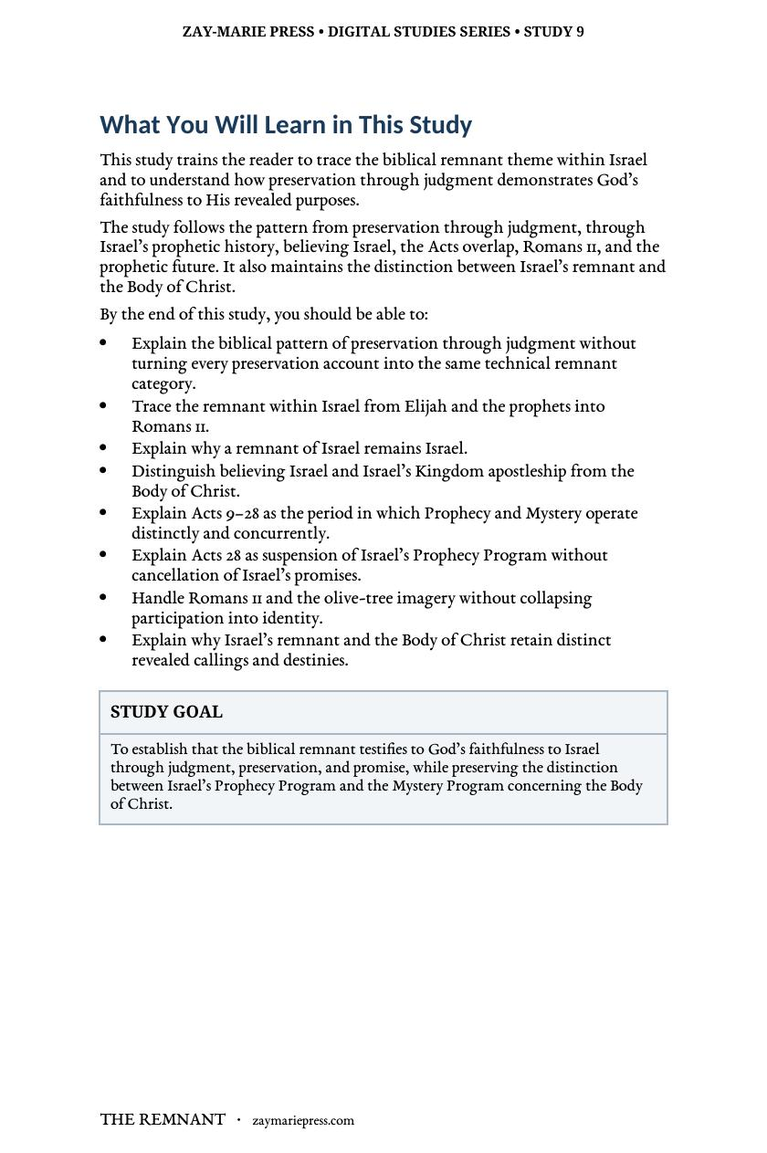
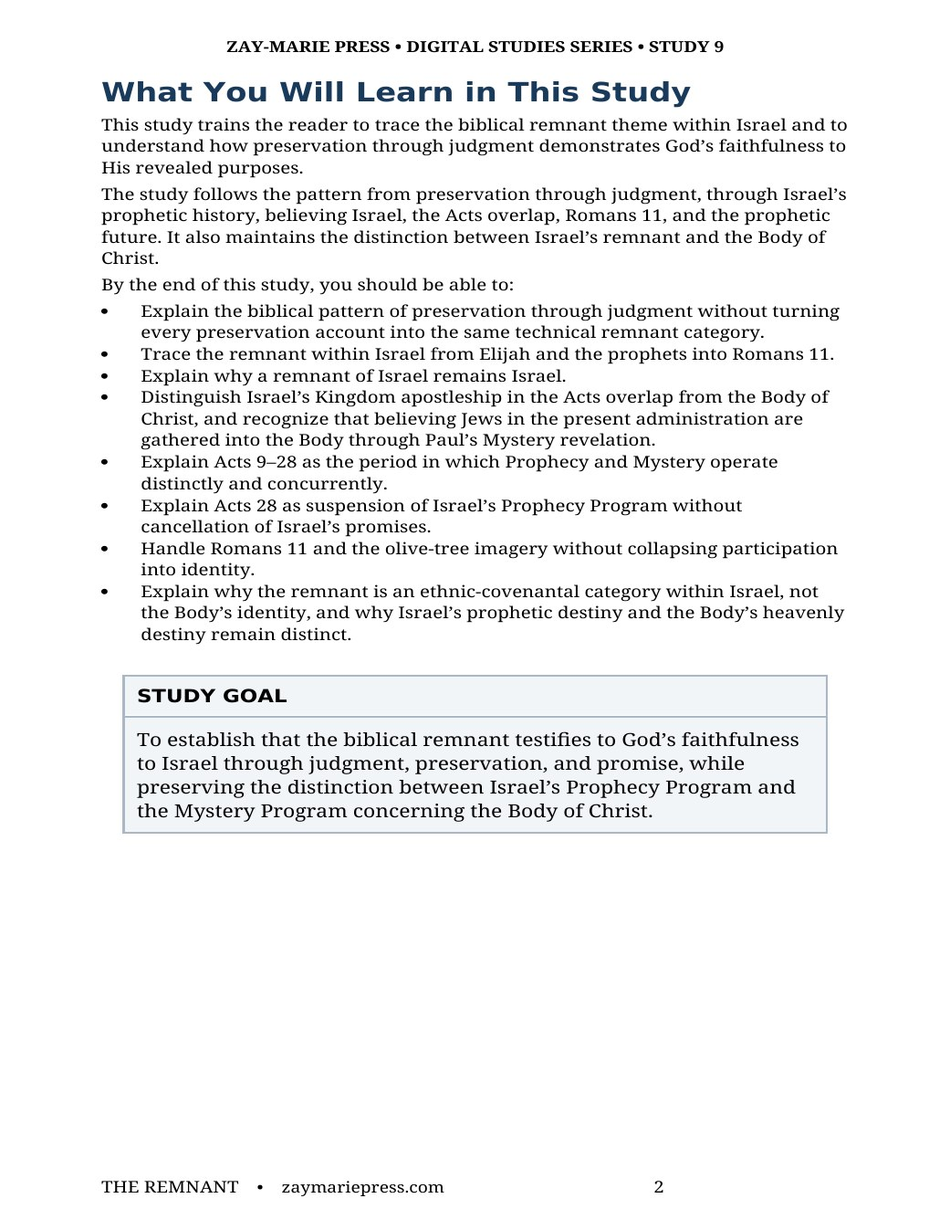
Study 9: PAM/Section 4 rulings, 16 pages, three-page preview strip; tracker v1.8
Replace two What You'll Study lines, update page count 15->16, regenerate
previews (TOC, What You Will Learn, Acts 9-28 page) from rebuilt PDF.

Claude-Session: https://claude.ai/code/session_01QibtkwXuhqKkeD6pfcAZUc

Changed region(s): [[0.0929, 0.0, 0.8976, 0.7102], [0.0929, 0.9572, 0.4643, 0.9881]]

diff --git a/study-09-the-remnant.html b/study-09-the-remnant.html
@@ -11,12 +11,12 @@
 <body class="study-detail-page"><header class="site-header"><div class="wrap nav"><a aria-label="Zay-Marie Press home" class="logo" href="index.html"><img alt="Zay-Marie Press" height="238" src="assets/zay-marie-press-logo-hq.png" width="420"/></a><button aria-controls="primary-nav" aria-expanded="false" class="menu-toggle" type="button">MENU</button><nav aria-label="Primary navigation" class="primary-nav" id="primary-nav"><a href="index.html">HOME</a><a href="books.html">BOOKS</a><a href="series.html">SERIES</a><a class="active" aria-current="page" href="digital-studies.html">DIGITAL STUDIES</a><a href="biblical-hermeneutics-course.html">COURSE</a><a href="about.html">ABOUT</a><a href="resources.html">RESOURCES</a><a href="contact.html">CONTACT</a></nav></div></header><main>
 <section class="detail-hero"><div class="wrap detail-hero-grid"><div class="detail-cover"><img src="assets/study-09-cover.jpg" alt="The Remnant — Study 9 cover"/></div><div><div class="eyebrow">STUDY 9 · DIGITAL STUDY</div><h1>The Remnant</h1><p class="detail-subtitle">God’s Faithfulness to Israel Through Judgment, Preservation, and Promise</p><p class="detail-kicker">A Biblical Examination of Israel’s Remnant, Believing Israel, Romans 11, the Acts Overlap, and Prophetic Fulfillment</p><p class="detail-copy">Throughout Israel’s history, judgment and unbelief never cancel God’s revealed purpose. The remnant stands as evidence that God remains faithful to Israel’s covenants, promises, calling, and prophetic destiny.</p><p class="detail-copy">This study follows the remnant from Scripture’s pattern of preservation through judgment, through believing Israel and the Acts Overlap, to Romans 11 and Israel’s future fulfillment—while preserving the Body of Christ’s distinct Mystery identity and heavenly calling.</p><div class="detail-buyline"><span class="detail-price">$5.99</span><span class="detail-format">Digital PDF</span><span class="detail-button pending" aria-disabled="true">Get the Study</span></div></div></div></section>
 <section class="detail-section"><div class="wrap"><div class="eyebrow">ABOUT THIS STUDY</div><h2>Why Does the Remnant Matter?</h2><p class="lead">The remnant is not a new people replacing Israel. A remnant of Israel remains Israel. In Elijah’s day, in Paul’s day, and in Israel’s prophetic future, preservation confirms that God has not cast away His people.</p><p class="lead">During Acts 9–28, Israel’s Prophecy Program and the Mystery Program concerning the Body of Christ operate distinctly and concurrently. Romans 11 therefore teaches preservation without identity transfer: participation in blessing does not make the Body of Christ Israel, nor does Israel become the Body.</p><p class="lead">This is not a study of Israel’s present corporate judicial blinding, which Study 21 examines fully, nor of Revelation’s numbered company of 144,000, which Study 23 identifies on its own terms, nor of election itself, which Study 50 traces as a distinct national and individual reality. Its task is narrower: to follow the preserved believing remnant through Elijah, Paul, and Israel’s prophetic future, and to show that a remnant’s preservation confirms Israel’s continuation rather than her replacement.</p><div class="study-distinction"><h3>How These Studies Relate</h3><p>Study 9 follows the believing remnant within Israel, including Paul’s argument in Romans 11.</p><p><a href="study-21-israels-judicial-blinding.html">Study 21 — Israel’s Judicial Blinding</a> Read corporate judicial blinding alongside the remnant’s continued existence. This explains how Israel can face national hardening without every Israelite being hardened.</p><p><a href="study-23-the-144000.html">Study 23 — The 144,000</a> Examine Revelation’s numbered tribal company as a particular group; it prevents the 144,000 from being equated with every faithful Israelite in every period.</p><p><a href="study-50-election.html">Study 50 — Election</a> See the remnant’s election of grace set alongside Israel’s national election and the Body’s election in Christ — this study’s own ground within the larger pattern Study 50 traces.</p><p class="connection-guide-link"><a href="study-connections.html#study-09">Explore the full connection guide for Study 9 →</a></p></div><div class="cross-strand-note"><p class="cross-strand-label">FROM THE PARABLES STRAND</p><p>The Barren Fig Tree and the Generation's Response pictures the reprieve this remnant occupies within its own generation.</p><p><a href="parable-10-the-barren-fig-tree-and-the-generation-s-response.html">The Barren Fig Tree and the Generation's Response</a></p></div></div></section>
-<section class="detail-section soft"><div class="wrap"><div class="eyebrow">WHAT YOU’LL STUDY</div><h2>God’s Faithfulness Preserves Distinction</h2><div class="study-points"><div class="study-point"><h3>The Biblical Pattern of Preservation</h3><p>See how God preserves through judgment without turning every example into the same remnant category.</p></div><div class="study-point"><h3>The Remnant Within Israel</h3><p>Follow the remnant from Elijah and the prophets into Paul’s argument in Romans 11.</p></div><div class="study-point"><h3>Messiah, the Kingdom, and Believing Israel</h3><p>Distinguish believing Israel and Kingdom apostleship from the Body of Christ.</p></div><div class="study-point"><h3>The Remnant During the Acts Overlap</h3><p>Place the continuing remnant alongside the Body of Christ without merging Prophecy and Mystery.</p></div><div class="study-point"><h3>Romans 11: Preservation Without Identity Transfer</h3><p>Work through Elijah, the remnant according to grace, and the olive tree without collapsing participation into identity.</p></div><div class="study-point"><h3>Two Distinct Destinies, One Faithful God</h3><p>Preserve Israel’s prophetic future and the Body’s heavenly calling in their distinct revealed settings.</p></div></div></div></section>
+<section class="detail-section soft"><div class="wrap"><div class="eyebrow">WHAT YOU’LL STUDY</div><h2>God’s Faithfulness Preserves Distinction</h2><div class="study-points"><div class="study-point"><h3>The Biblical Pattern of Preservation</h3><p>See how God preserves through judgment without turning every example into the same remnant category.</p></div><div class="study-point"><h3>The Remnant Within Israel</h3><p>Follow the remnant from Elijah and the prophets into Paul’s argument in Romans 11.</p></div><div class="study-point"><h3>Messiah, the Kingdom, and Believing Israel</h3><p>Distinguish Israel’s Kingdom apostleship from the Body of Christ, and trace where believing Jews stand in the Mystery administration.</p></div><div class="study-point"><h3>The Remnant During the Acts Overlap</h3><p>Follow the remnant category through Acts 9–28 as Prophecy and Mystery operate together, without merging the two programs.</p></div><div class="study-point"><h3>Romans 11: Preservation Without Identity Transfer</h3><p>Work through Elijah, the remnant according to grace, and the olive tree without collapsing participation into identity.</p></div><div class="study-point"><h3>Two Distinct Destinies, One Faithful God</h3><p>Preserve Israel’s prophetic future and the Body’s heavenly calling in their distinct revealed settings.</p></div></div></div></section>
 <section class="detail-section cream"><div class="wrap"><div class="eyebrow">KEY SCRIPTURES</div><h2>Examine the Passages for Yourself</h2><div class="scripture-grid"><div class="scripture-card"><h3>Genesis 6–7</h3><p>Establishes the broad pattern of God preserving through judgment.</p></div><div class="scripture-card"><h3>1 Kings 19:18</h3><p>Records God’s preserved seven thousand within Israel in Elijah’s day.</p></div><div class="scripture-card"><h3>Isaiah 10:20–22</h3><p>Sets the remnant within Israel’s prophetic judgment and future return.</p></div><div class="scripture-card"><h3>Jeremiah 23:3</h3><p>Promises the gathering of Israel’s remnant from the countries of scattering.</p></div><div class="scripture-card"><h3>Matthew 19:28</h3><p>Places the Twelve within Israel’s future Kingdom setting.</p></div><div class="scripture-card"><h3>Romans 9–11</h3><p>Develops Israel, election, the remnant, Gentiles, and God’s continuing faithfulness.</p></div><div class="scripture-card"><h3>Acts 28:25–28</h3><p>Marks the suspension of Israel’s Prophecy Program without cancellation of Israel’s promises.</p></div><div class="scripture-card"><h3>Revelation 7:4–8</h3><p>Identifies Israel’s tribes within the continuing prophetic horizon.</p></div></div></div></section>
 <section class="detail-section"><div class="wrap"><div class="eyebrow">FROM THE STUDY</div><h2>God Is Faithful</h2><div class="excerpt"><blockquote>“The remnant is not the reason God is faithful. The remnant is evidence that God is faithful.”</blockquote><p>Israel’s unbelief, judgment, and suspension do not erase what God revealed concerning Israel. Likewise, the Mystery revealed through Paul does not require Israel to become the Body of Christ. God preserves the distinctions He revealed and fulfills each purpose according to its own calling.</p></div></div></section>
-<section class="detail-section soft"><div class="wrap"><div class="eyebrow">A LOOK INSIDE</div><h2>Preview the Study Before You Purchase</h2><p class="preview-instruction">Click any page to enlarge it for reading.</p><div class="preview-grid"><div class="preview-card"><a class="preview-image-link" data-preview-lightbox href="assets/study-09-page-2.jpg"><img src="assets/study-09-page-2.jpg" alt="Study 9 interior preview — page 2, what you will learn in this study"/></a><div class="page-no">Page 2</div><h3>What You Will Learn</h3><p>See the study’s learning outcomes, remnant focus, and governing distinctions at a glance.</p></div><div class="preview-card"><a class="preview-image-link" data-preview-lightbox href="assets/study-09-page-9.jpg"><img src="assets/study-09-page-9.jpg" alt="Study 9 interior preview — page 9, Acts 28 and Romans 11"/></a><div class="page-no">Page 9</div><h3>Acts 28 and Romans 11</h3><p>Examine suspension without cancellation and preservation without identity transfer.</p></div><div class="preview-card"><a class="preview-image-link" data-preview-lightbox href="assets/study-09-page-12.jpg"><img src="assets/study-09-page-12.jpg" alt="Study 9 interior preview — page 12, God is faithful"/></a><div class="page-no">Page 12</div><h3>God Is Faithful</h3><p>Follow the conclusion that Israel’s remnant confirms God’s faithfulness to His revealed purpose.</p></div><div class="preview-card"><a class="preview-image-link" data-preview-lightbox href="assets/study-09-page-14.jpg"><img src="assets/study-09-page-14.jpg" alt="Study 9 interior preview — page 14, study summary and Scripture-tracing exercise"/></a><div class="page-no">Page 14</div><h3>Summary and Scripture Trace</h3><p>Review the remnant’s key distinctions, then work directly from the governing passages.</p></div></div></div></section>
-<section class="detail-section"><div class="wrap"><div class="eyebrow">WHAT’S INCLUDED</div><h2>A Focused Study Built for<br/>Understanding and Teaching</h2><div class="includes-grid"><div class="include-item"><h3>15-Page In-Depth Biblical Study</h3><p>A careful biblical study of Israel’s remnant, preservation, and prophetic future.</p></div><div class="include-item"><h3>Six Core Teaching Sections</h3><p>Move from preservation through judgment to Romans 11 and prophetic fulfillment.</p></div><div class="include-item"><h3>Remnant Scripture Trace</h3><p>Follow the theme from Genesis and Elijah through the prophets, Acts, Romans, and Revelation.</p></div><div class="include-item"><h3>Romans 11 and Olive-Tree Study</h3><p>Examine Israel, the remnant, Gentiles, branches, and participation without identity transfer.</p></div><div class="include-item"><h3>Eight Review Questions</h3><p>Test the study’s distinctions concerning preservation, Israel, Acts 28, and the Body.</p></div><div class="include-item"><h3>Teaching Outline</h3><p>A ready framework for presenting God’s faithfulness to Israel with precision.</p></div><div class="include-item"><h3>Guided Further Study</h3><p>Read Romans 9–11 as one argument, then compare it with the remnant passages.</p></div><div class="include-item"><h3>Final Synthesis Exercise</h3><p>Bring the evidence together while preserving Israel’s prophetic identity and the Body’s distinct calling.</p></div></div></div></section>
-<section class="detail-section cream"><div class="wrap"><div class="final-buy"><div><div class="eyebrow">STUDY 9 · DIGITAL STUDY</div><h2>The Remnant</h2><p>15-page digital PDF · For personal use</p></div><div class="final-offer"><div class="detail-price">$5.99</div><span class="detail-button pending" aria-disabled="true">Get the Study</span></div></div><a class="back-link" href="digital-studies.html">← Back to All Digital Studies</a></div></section><section class="study-method-course-bridge"><div class="wrap"><div class="study-method-course-panel"><div><div class="eyebrow">BUILD THE INTERPRETIVE METHOD</div><h2>Want More Than a Focused Study?</h2><p>Digital Studies examine particular biblical subjects and difficult passages. The 40-lesson Biblical Hermeneutics course teaches a complete, repeatable method for establishing meaning in context, determining proper assignment, and making responsible application.</p></div><a class="btn btn-primary" href="biblical-hermeneutics-course.html">BIBLICAL HERMENEUTICS COURSE</a></div></div></section></main>
+<section class="detail-section soft"><div class="wrap"><div class="eyebrow">A LOOK INSIDE</div><h2>Preview the Study Before You Purchase</h2><p class="preview-instruction">Click any page to enlarge it for reading.</p><div class="preview-grid"><div class="preview-card"><a class="preview-image-link" data-preview-lightbox href="assets/study-09-page-3.jpg"><img src="assets/study-09-page-3.jpg" alt="Study 9 interior preview — page 3, table of contents"/></a><div class="page-no">Page 3</div><h3>Table of Contents</h3><p>See the full structure of the study, from the introduction through the final synthesis.</p></div><div class="preview-card"><a class="preview-image-link" data-preview-lightbox href="assets/study-09-page-2.jpg"><img src="assets/study-09-page-2.jpg" alt="Study 9 interior preview — page 2, what you will learn in this study"/></a><div class="page-no">Page 2</div><h3>What You Will Learn</h3><p>See the study’s learning outcomes, remnant focus, and governing distinctions at a glance.</p></div><div class="preview-card"><a class="preview-image-link" data-preview-lightbox href="assets/study-09-page-8.jpg"><img src="assets/study-09-page-8.jpg" alt="Study 9 interior preview — page 8, Acts 9–28 concurrent operation"/></a><div class="page-no">Page 8</div><h3>Acts 9–28: Concurrent Operation</h3><p>Follow how the remnant category is read alongside the overlap period.</p></div></div></div></section>
+<section class="detail-section"><div class="wrap"><div class="eyebrow">WHAT’S INCLUDED</div><h2>A Focused Study Built for<br/>Understanding and Teaching</h2><div class="includes-grid"><div class="include-item"><h3>16-Page In-Depth Biblical Study</h3><p>A careful biblical study of Israel’s remnant, preservation, and prophetic future.</p></div><div class="include-item"><h3>Six Core Teaching Sections</h3><p>Move from preservation through judgment to Romans 11 and prophetic fulfillment.</p></div><div class="include-item"><h3>Remnant Scripture Trace</h3><p>Follow the theme from Genesis and Elijah through the prophets, Acts, Romans, and Revelation.</p></div><div class="include-item"><h3>Romans 11 and Olive-Tree Study</h3><p>Examine Israel, the remnant, Gentiles, branches, and participation without identity transfer.</p></div><div class="include-item"><h3>Eight Review Questions</h3><p>Test the study’s distinctions concerning preservation, Israel, Acts 28, and the Body.</p></div><div class="include-item"><h3>Teaching Outline</h3><p>A ready framework for presenting God’s faithfulness to Israel with precision.</p></div><div class="include-item"><h3>Guided Further Study</h3><p>Read Romans 9–11 as one argument, then compare it with the remnant passages.</p></div><div class="include-item"><h3>Final Synthesis Exercise</h3><p>Bring the evidence together while preserving Israel’s prophetic identity and the Body’s distinct calling.</p></div></div></div></section>
+<section class="detail-section cream"><div class="wrap"><div class="final-buy"><div><div class="eyebrow">STUDY 9 · DIGITAL STUDY</div><h2>The Remnant</h2><p>16-page digital PDF · For personal use</p></div><div class="final-offer"><div class="detail-price">$5.99</div><span class="detail-button pending" aria-disabled="true">Get the Study</span></div></div><a class="back-link" href="digital-studies.html">← Back to All Digital Studies</a></div></section><section class="study-method-course-bridge"><div class="wrap"><div class="study-method-course-panel"><div><div class="eyebrow">BUILD THE INTERPRETIVE METHOD</div><h2>Want More Than a Focused Study?</h2><p>Digital Studies examine particular biblical subjects and difficult passages. The 40-lesson Biblical Hermeneutics course teaches a complete, repeatable method for establishing meaning in context, determining proper assignment, and making responsible application.</p></div><a class="btn btn-primary" href="biblical-hermeneutics-course.html">BIBLICAL HERMENEUTICS COURSE</a></div></div></section></main>
 <div class="preview-lightbox" id="preview-lightbox" role="dialog" aria-modal="true" aria-label="Enlarged study page preview"><button class="preview-lightbox-close" type="button" aria-label="Close enlarged preview">×</button><img src="" alt=""/><div class="preview-lightbox-hint">Scroll to read the full page · Press Esc or click outside the page to close</div></div>
 <footer class="site-footer"><div class="wrap footer-grid"><div class="footer-about"><h3>Zay-Marie Press</h3><p class="footer-tagline"><em>Where the Bible Means What It Says.</em></p><p>Zay-Marie Press is a Christian theological publisher dedicated to producing doctrinally precise, carefully structured biblical resources that equip pastors, teachers, and serious students with clarity, depth, and Scripture-anchored truth.</p><p><a href="https://zaymariepress.com">zaymariepress.com</a><br/><a href="mailto:info@zaymariepress.com">info@zaymariepress.com</a></p></div><div class="footer-column"><h3>Explore</h3><div class="footer-links-stacked"><a href="books.html">Books</a><br/><a href="series.html">Series</a><br/><a href="biblical-hermeneutics-course.html">Course</a><br/><a href="digital-studies.html">Digital Studies</a><br/><a href="resources.html">Resources</a><br/><a href="bible-book-summaries.html">Bible Book Summaries</a><br/><a href="doctrinal-packets.html">Doctrinal Packets</a><br/><a href="historical-drift.html">Historical Drift</a><br/><a href="about.html">About</a><br/><a href="contact.html">Contact</a></div></div><div class="footer-column"><h3>Reader Support</h3><div class="footer-links-stacked"><a href="reader-support.html#faq">FAQ</a><br/><a href="reader-support.html#shipping-returns">Shipping &amp; Returns</a><br/><a href="reader-support.html#digital-downloads">Digital Downloads</a><br/><a href="reader-support.html#contact-support">Contact Support</a></div></div><div class="footer-column"><h3>Acts Overlap</h3><p><strong>Acts Overlap Theology Series</strong></p><p><em>Two Distinct Streams. One Overlap.</em></p><p><a href="series.html">Series Overview</a></p></div></div><div class="wrap footer-bottom">© 2026 Zay-Marie Press. All rights reserved.</div></footer>
 <script src="site.js"></script><script>(function(){var box=document.getElementById("preview-lightbox"),img=box.querySelector("img"),close=box.querySelector(".preview-lightbox-close"),hint=box.querySelector(".preview-lightbox-hint"),hintTimer;function shut(){clearTimeout(hintTimer);box.classList.remove("open");hint.classList.remove("fade");document.body.style.overflow="";img.src=""}document.querySelectorAll("[data-preview-lightbox]").forEach(function(a){a.addEventListener("click",function(e){e.preventDefault();clearTimeout(hintTimer);img.src=a.getAttribute("href");img.alt=a.querySelector("img").alt;hint.classList.remove("fade");box.classList.add("open");document.body.style.overflow="hidden";box.scrollTop=0;hintTimer=setTimeout(function(){hint.classList.add("fade")},3000)})});close.addEventListener("click",shut);box.addEventListener("click",function(e){if(e.target===box)shut()});document.addEventListener("keydown",function(e){if(e.key==="Escape"&&box.classList.contains("open"))shut()})})();</script></body></html>

diff --git a/site.js b/site.js
@@ -62,7 +62,7 @@ const resourceModal=document.querySelector('#resource-modal'), resourceModalTitl
 if(resourceModal&&resourceModalTriggers.length){const closeResourceModal=()=>{resourceModal.hidden=true;document.body.classList.remove('resource-modal-open');lastResourceTrigger?.focus();};resourceModalTriggers.forEach(trigger=>trigger.addEventListener('click',()=>{lastResourceTrigger=trigger;if(resourceModalTitle)resourceModalTitle.textContent=trigger.dataset.title||'Resource';if(resourceModalDescription)resourceModalDescription.textContent=trigger.dataset.description||'';if(resourceModalLink){resourceModalLink.href=trigger.dataset.href||'#';resourceModalLink.textContent=trigger.dataset.linkText||'OPEN RESOURCE';}resourceModal.hidden=false;document.body.classList.add('resource-modal-open');resourceModalClose?.focus();}));resourceModalClose?.addEventListener('click',closeResourceModal);resourceModal.addEventListener('click',e=>{if(e.target===resourceModal)closeResourceModal();});document.addEventListener('keydown',e=>{if(e.key==='Escape'&&!resourceModal.hidden)closeResourceModal();});}
 
 /* Display the verified final-PDF page count at the primary purchase decision point. */
-const digitalStudyPageCounts={1:14,2:15,3:20,4:20,5:16,6:16,7:17,8:15,9:15,10:23,11:13,12:13,13:15,14:13,15:13,16:14,17:14,18:13,19:13,20:13,21:14,22:15,23:15,24:13,25:13,26:17,27:15,28:14,29:13,30:17,31:17,32:14,33:15,34:16,35:15,36:15,37:15,38:16,39:16,40:15,41:15,42:15,43:17,44:15,45:15,46:15,47:16,48:15,49:14,50:14,51:15,52:15,53:15,54:15,55:16,56:16,61:16,62:16,63:16,64:16,65:16,66:16,67:16,68:16,69:16,70:16,71:16};
+const digitalStudyPageCounts={1:14,2:15,3:20,4:20,5:16,6:16,7:17,8:15,9:16,10:23,11:13,12:13,13:15,14:13,15:13,16:14,17:14,18:13,19:13,20:13,21:14,22:15,23:15,24:13,25:13,26:17,27:15,28:14,29:13,30:17,31:17,32:14,33:15,34:16,35:15,36:15,37:15,38:16,39:16,40:15,41:15,42:15,43:17,44:15,45:15,46:15,47:16,48:15,49:14,50:14,51:15,52:15,53:15,54:15,55:16,56:16,61:16,62:16,63:16,64:16,65:16,66:16,67:16,68:16,69:16,70:16,71:16};
 const digitalStudyMatch=window.location.pathname.match(/\/study-(\d+)-/i);
 const digitalStudyFormat=document.querySelector('.detail-hero .detail-format');
 if(digitalStudyMatch&&digitalStudyFormat){const studyNumber=Number(digitalStudyMatch[1]),pageCount=digitalStudyPageCounts[studyNumber];if(pageCount)digitalStudyFormat.textContent=`Digital PDF · ${pageCount} Pages`;}

diff --git a/controlling-documents/Digital_Studies_PAM_Audit_v1.8.md b/controlling-documents/Digital_Studies_PAM_Audit_v1.8.md
@@ -1,4 +1,4 @@
-# Digital Studies vs. PAM Audit — v1.7
+# Digital Studies vs. PAM Audit — v1.8
 
 Working tracker and instructions for checking the Digital Studies against the Program Assignment Manual (PAM), §XIX of `Framework_Control_Document_Acts_Overlap.docx`, including its "Section 4 — Publisher Rulings". Same `_vX.Y` convention as the other controlling documents: update the status table and changelog as the audit proceeds, bump the version, and rename the file to match.
 
@@ -123,7 +123,7 @@ The "rapture passages" sentence is not in the DOCX (it was website-only). A rela
 ## Framework amendment and further-impact sweep (2026-09-30)
 
 - The Framework was amended (e254f48): new "Section 4 (continued)" rulings on Galatians 6:16, remnant vs. Body (identity, not program), and Matthew 24 / Luke 17 "one taken, one left", plus a control line in both §XVII locations. Only Studies 35 and 49 are confirmed affected and both are corrected.
-- **Study 9 (RULED 2026-09-30, edits pending the matching DOCX):** PDF read (FINAL34_1). Conflicts with the Gal 6:16 / remnant rulings: (1) section 4, Acts 9–28 ("Israel's remnant remains associated with Prophecy; the Body belongs to the Mystery"; remnant "alongside" the Body); (2) the "What You Will Learn" point "Distinguish believing Israel and Israel's Kingdom apostleship from the Body of Christ" and Study Goal/outline lines; (3) the same two ideas on the website's What You'll Study ("Distinguish believing Israel… from the Body of Christ"; "Place the continuing remnant alongside the Body of Christ…"). Publisher ruling: Israel's prophetic program continues during Acts 9–28, Israel remains Israel by identity, believing Jews are gathered into the Body through Paul's Mystery revelation, and the remnant category is ethnic, not administrative; the future remnant material (scattered, protected, repentant, sealed) stands unchanged. The DOCX supplied is an older draft than the FINAL34_1 PDF (no section 6, no TOC numbers), so no rebuild has been made; the matching DOCX is needed.
+- **Study 9 (FIXED 2026-09-30 — interior rebuilt (16 pp) and site lines updated, pending push approval):** PDF read (FINAL34_1). Conflicts with the Gal 6:16 / remnant rulings: (1) section 4, Acts 9–28 ("Israel's remnant remains associated with Prophecy; the Body belongs to the Mystery"; remnant "alongside" the Body); (2) the "What You Will Learn" point "Distinguish believing Israel and Israel's Kingdom apostleship from the Body of Christ" and Study Goal/outline lines; (3) the same two ideas on the website's What You'll Study ("Distinguish believing Israel… from the Body of Christ"; "Place the continuing remnant alongside the Body of Christ…"). Publisher ruling: Israel's prophetic program continues during Acts 9–28, Israel remains Israel by identity, believing Jews are gathered into the Body through Paul's Mystery revelation, and the remnant category is ethnic, not administrative; the future remnant material (scattered, protected, repentant, sealed) stands unchanged. The DOCX supplied is an older draft than the FINAL34_1 PDF (no section 6, no TOC numbers), so no rebuild has been made; the matching DOCX is needed.
 - **Study 42 (RESOLVED 2026-09-30):** publisher ruled that 1 Peter's audience is "Jewish believers scattered abroad (1:1)" with no program label (PAM silent on 1 Peter); three interior edits made (1 Pet 1:1 audience; "Even within Israel's program" replaced by "As Peter himself says, the water itself does not save."; 1 Pet 2:9 "believing remnant" replaced by "Jewish believers"). The Matt. 3:11 / Acts 1:5 table row ("Israel's remnant") stands as the pre-Body prophetic remnant. Interior rebuilt from the DOCX with IBM Plex Serif (production font; rebuild matched the production PDF page-for-page before edits); 15 pages, TOC numbers verified. Website text needed no change. Preview strip changed from PDF pages 4, 6, 8, 9 to PDF pages 3, 4, 8 (labels Page 2, 3, 7), meeting Master Standard §16; `study-42-page-5.jpg` and `-page-8.jpg` removed, `study-42-page-2.jpg` added. The purchasable PDF is swapped in by the publisher.
 - **PDFs not yet read** against the new rulings: 9, 13, 21, 23, 50, 61, 63, 4, 36, 37 (and others not on the earlier list).
 
@@ -132,7 +132,7 @@ The "rapture passages" sentence is not in the DOCX (it was website-only). A rela
 - **Read against the PAM, Section 4 and the 2026-09-30 rulings:** Studies 4, 9, 13, 21, 23, 36, 37, 50, 61, 63.
 - **Clear:** 4, 13, 21, 23, 36, 37 (defers to Study 35 on "the Israel of God"), 61 (its "rest of her offspring" is the Tribulation remnant), 63. None of the ten mentions "one taken, one left".
 - **Study 50 (FIXED 2026-09-30, publisher approved):** 1 Peter 1:1–2 no longer carries a program label (audience: "Jewish believers scattered abroad (1:1)"; "Kingdom Commission" wording removed); "Prophecy-Program election" in section 3.2 became "national election"; "presently marked out" became "marked out" in the Study Summary. Rebuilt from the production DOCX (Liberation fonts; rebuild matched the review-copy PDF page-for-page before edits), 14 pages, TOC verified; only pages 6, 10 and 11 changed. Website needs no change (preview pages 2, 3 and 4 unaffected). The purchasable PDF is swapped in by the publisher.
-- **Study 9:** see above; edits pending the matching DOCX.
+- **Study 9:** FIXED. Final ruling: the Twelve and Pentecost believers were in Israel’s Prophecy Program through Acts 1–28; after Acts 28 every saved Jew stands in the Body. Interior rebuilt from the FINAL34_1 PDF text (no matching DOCX existed), 16 pages, TOC recalculated, Section 4 / WYWL / Study Goal / outline rewritten; extra approved lines: Key Distinctions bullet 3 and Review Q3. Site: two “What You’ll Study” lines replaced; page count 15→16 (site.js, page copy); previews now Table of Contents (p.3), What You Will Learn (p.2), Acts 9–28 Concurrent Operation (p.8); old pp. 9/12/14 removed. Note: in this PDF WYWL is p.2 and the TOC is p.3.
 
 ## Changelog
 
@@ -145,3 +145,5 @@ The "rapture passages" sentence is not in the DOCX (it was website-only). A rela
 - v1.5 (2026-09-30): recorded the Framework amendment (e254f48) and the further-impact sweep (Study 9 website lines, Study 42 PDF lines; unread PDFs listed). No study files changed.
 - v1.6 (2026-09-30): Study 42 ruled and fixed (see "Study 42 (RESOLVED)"); preview strip set to three pages.
 - v1.7 (2026-09-30): swept Studies 4, 9, 13, 21, 23, 36, 37, 50, 61, 63; Study 50 fixed and approved; Study 9 ruled, edits pending the matching DOCX.
+
+- v1.8 (2026-09-30): Study 9 rebuilt and site updated (see Study 9 entry); publisher approved wording, site lines, 16 pages and previews.
